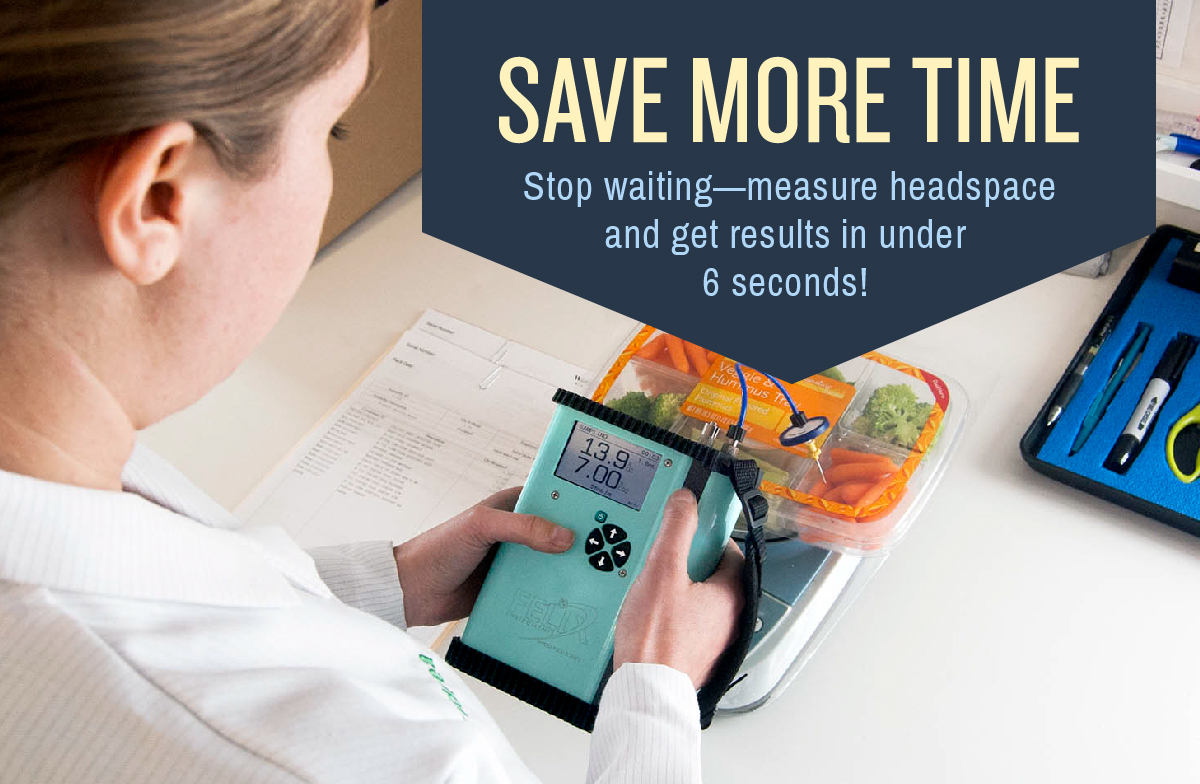
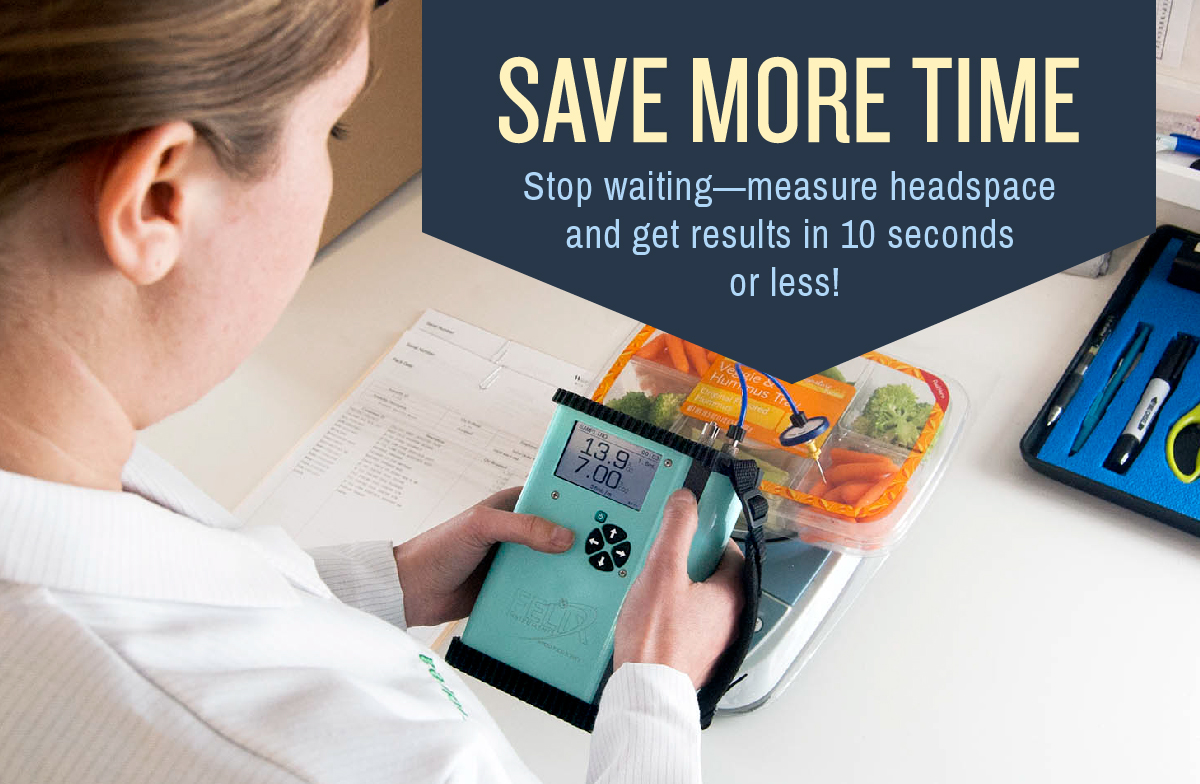
copy edit on image

Changed region(s): [[0.4625, 0.2755, 0.8633, 0.398]]

diff --git a/src/partials/image-only-01.html b/src/partials/image-only-01.html
@@ -11,7 +11,7 @@
         <center>
 
       <a href="">
-         <img src="http://placehold.it/570x375" width="570" class="alt-text main-image" alt="A nice placeholder image">
+         <img src="assets/img/image01.jpg" width="570" class="alt-text main-image" alt="Save more time - measure headspace in 10 seconds or less!">
       </a>
 
       </center>
